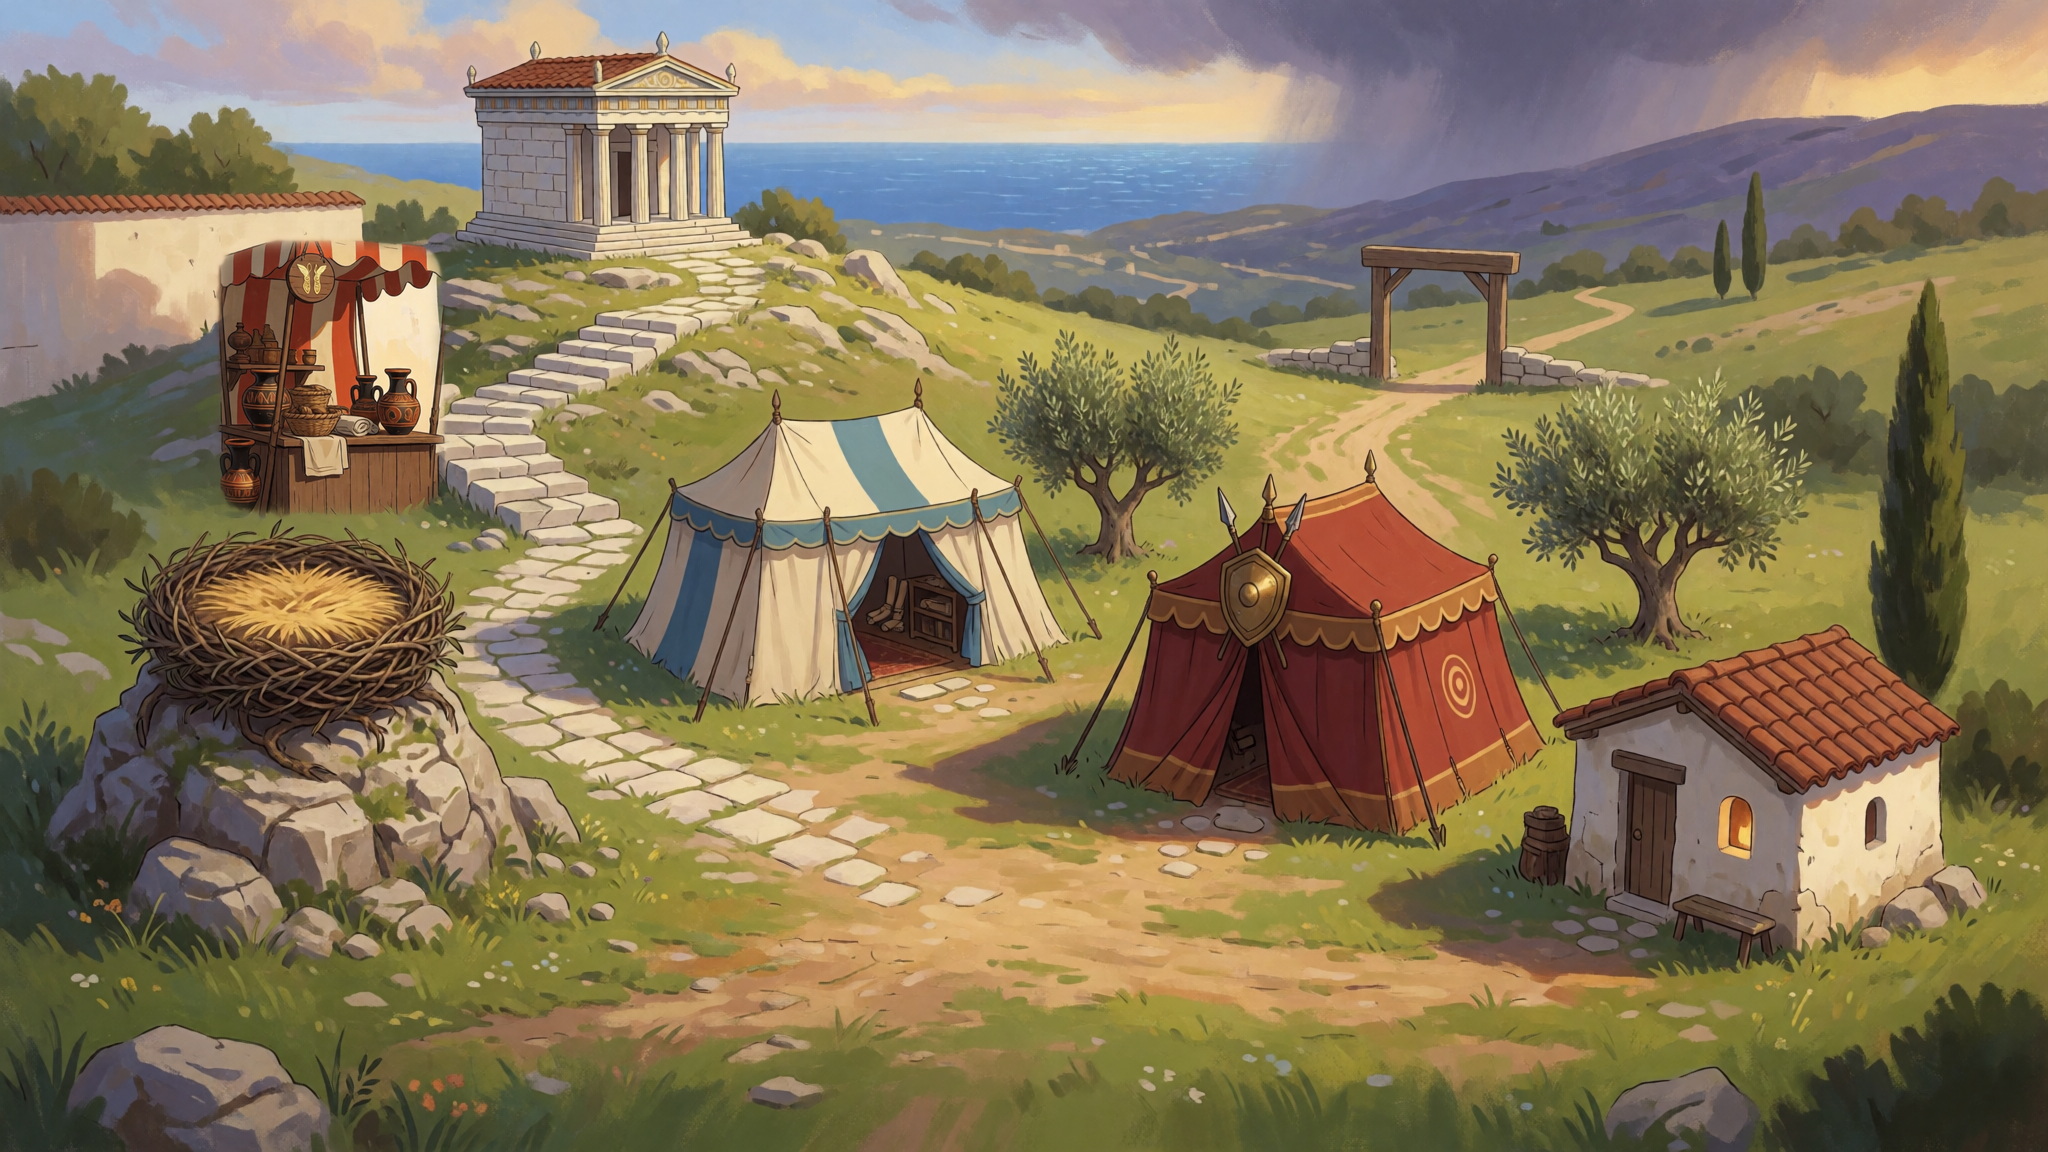
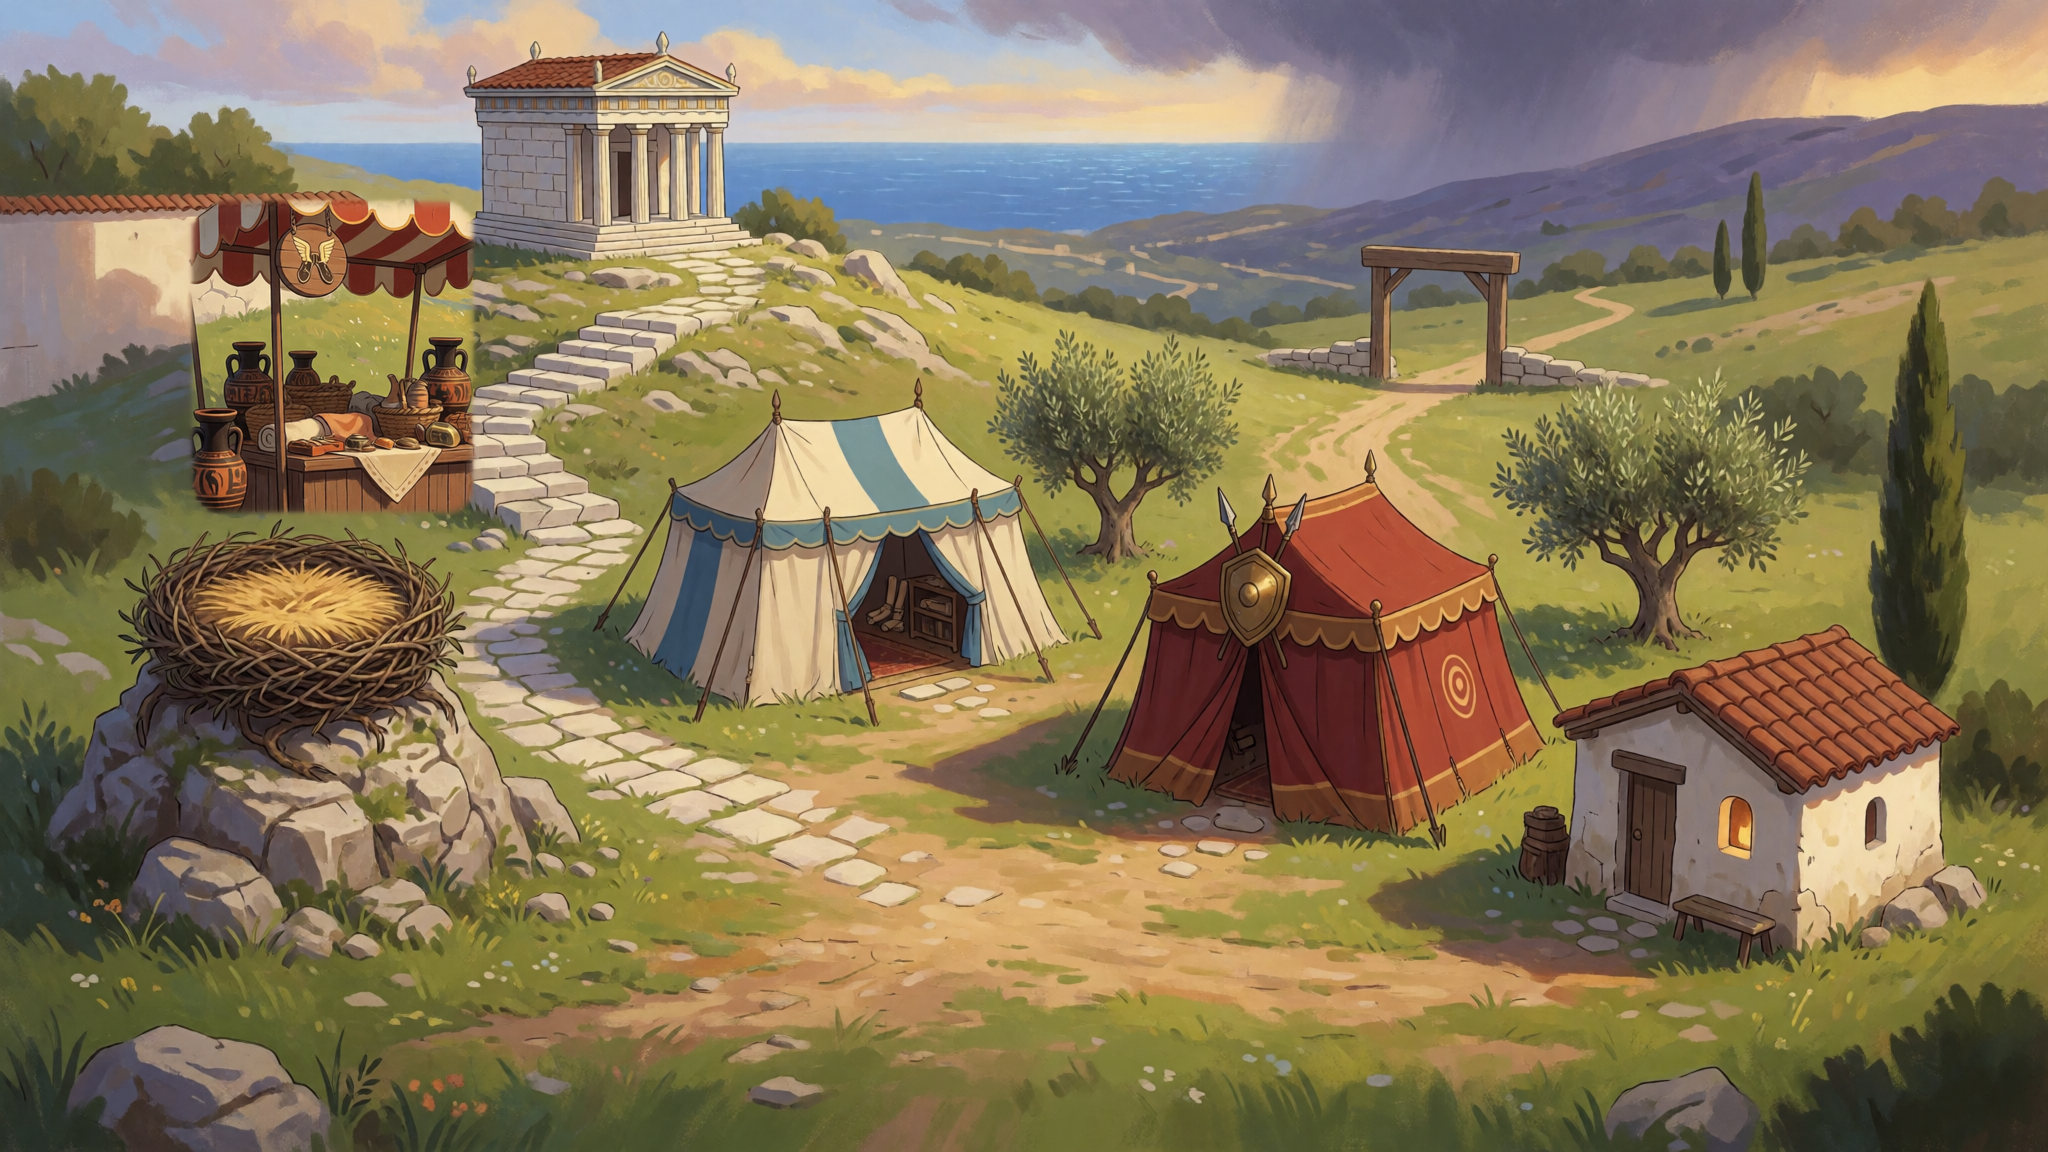
Art: Hermès's stall repainted in two passes (seed 5133, then the edge re-rendered at denoise 0.5 with seed 6131): open on all sides, its whole awning, crisp edges with no feathered halo, its feet clear of the nest; the hotspot follows the new awning (x 12.5-22.4, y 17-41) with its bounds pinned agai

Changed region(s): [[0.0938, 0.1562, 0.25, 0.4688]]

diff --git a/web/src/lib/world/scenes/camp.shapes.ts b/web/src/lib/world/scenes/camp.shapes.ts
@@ -11,17 +11,18 @@
 // plaque hangs over the door's foot, above the dialogue dock (y 80+) at every tested size.
 // The two overlaps UI3a left open (oracle/parchemins, dossier/cabin labels) are what these bounds and
 // the label positions in camp.ts solve; scenes-camp.spec.ts proves labelOverlaps() is empty.
-// Hermès's stall (sub-project 4, `hub_camp.webp` now carries it; style guide phase 3: box x 10.5-21.8,
-// y 20.8-44.8) is clipped to the iPad safe zone on the left and ends at y 40, above the dragon's head,
-// which covers the counter below (R18). Its name is inked on the counter (camp.ts, `on`), and the
-// temple's plaque slides right off it (camp.ts `labelDx`). The counter's foot (y 40-44.8) is not the
-// stall's: the nest's box keeps its top at y 42-44 there, since the grown dragon's head is drawn over
-// the counter's foot and a tap on the dragon belongs to the nest (Task 5 review, minor 1: kept).
+// Hermès's stall (sub-project 4, `hub_camp.webp` carries it; repainted 2026-10-02, style guide: awning
+// x 8.8-23.4, y 17 at its right corner to 20 at its left, counter down to y 43) is clipped to the iPad
+// safe zone on the left, stops at x 22.4 where the temple's box begins, and ends at y 41, above the
+// dragon's head, which covers the counter's foot (R18). Its name is inked on the counter (camp.ts,
+// `on`), and the temple's plaque slides right off it (camp.ts `labelDx`). The counter's foot is not the
+// stall's: the nest's box keeps its top at y 42-44 there, since a tap on the dragon belongs to the nest
+// (Task 5 review, minor 1: kept).
 import type { ShapeMap } from '../../scene/types';
 
 export const CAMP_SHAPES = {
   dragon: { kind: 'polygon', points: [[12.5, 44], [23, 42], [25, 50], [24, 66], [12.5, 66]] },
-  stall: { kind: 'polygon', points: [[12.5, 21], [21.8, 21], [21.8, 40], [12.5, 40]] },
+  stall: { kind: 'polygon', points: [[12.5, 19.5], [22.4, 17], [22.4, 41], [12.5, 41]] },
   oracle: { kind: 'polygon', points: [[22.5, 14], [36, 14], [36, 22], [33, 31], [27, 31], [22.5, 22]] },
   parchemins: { kind: 'polygon', points: [[33, 42], [51, 42], [51, 61], [33, 61]] },
   dossier: { kind: 'polygon', points: [[54, 44], [74, 44], [74, 70], [54, 70]] },

diff --git a/web/src/lib/world/scenes/camp.test.ts b/web/src/lib/world/scenes/camp.test.ts
@@ -73,7 +73,14 @@ describe('the hub on hub_camp.webp (UI3 Ruling B3)', () => {
   it("puts Hermès's stall on its painted box, inside the safe zone, above the dragon (spec 2026-09-29 drachmes §2, R18)", () => {
     const stall = CAMP_HOTSPOTS.find((h) => h.id === 'stall')!;
     expect(stall).toMatchObject({ label: "L'étal d'Hermès", target: 'camp', query: { panel: 'etal' }, labelPos: 'on' });
-    expect(CAMP_SHAPES.stall).toEqual({ kind: 'polygon', points: [[12.5, 21], [21.8, 21], [21.8, 40], [12.5, 40]] });
+    // The stall repainted on 2026-10-02 (style guide): its awning's slant at the top, inside the safe
+    // zone, short of the temple's box and above the nest's.
+    expect(CAMP_SHAPES.stall).toEqual({ kind: 'polygon', points: [[12.5, 19.5], [22.4, 17], [22.4, 41], [12.5, 41]] });
+    const xs = CAMP_SHAPES.stall.points.map((p) => p[0]);
+    const ys = CAMP_SHAPES.stall.points.map((p) => p[1]);
+    expect(Math.min(...xs)).toBeGreaterThanOrEqual(12.5);
+    expect(Math.max(...xs)).toBeLessThan(Math.min(...CAMP_SHAPES.oracle.points.map((p) => p[0])));
+    expect(Math.max(...ys)).toBeLessThan(Math.min(...CAMP_SHAPES.dragon.points.map((p) => p[1])));
     // The temple keeps its whole painted box, its left wall included (Task 5 review I1).
     expect(CAMP_SHAPES.oracle.points[0]).toEqual([22.5, 14]);
     expect(validateScene(CAMP_SCENE)).toEqual([]);

diff --git a/.claude/skills/krea2/SKILL.md b/.claude/skills/krea2/SKILL.md
@@ -125,7 +125,9 @@ inside the mask, 0.01 outside). `POST /sdapi/v1/img2img`, schema `StableDiffusio
   the API, blur 8 on a 270×150 px mask worked fine here; small masks are untested. If a result comes
   back unchanged, check the mean diff inside the mask, lower `mask_blur` to 0–4 and feather the mask
   yourself.
-- Soft Inpainting is available as an img2img script (`soft inpainting`), untried.
+- Soft Inpainting is available as an img2img script (`soft inpainting`), untried; it softens
+  transitions by design and nobody reports it on Krea. For adding an object to a scene without a
+  feathered halo, see "Adding an object to a scene: two passes" below.
 
 **No dedicated Krea 2 inpaint/edit/ControlNet models are usable here.** Krea publishes only Raw and
 Turbo. Community inpaint LoRAs (`yijunwang2/krea2-anypaint`, `Cierpliwy/krea2-inpaint-edit`) need
@@ -260,35 +262,61 @@ Seeds and asset lists are in `docs/art/style-guide.md` ("Progression redesign, p
   palais marble columns, a mosaic floor, a back-wall arch onto a courtyard, a canopy bed). Denoise
   0.6 (14 steps) also kept the plan but stayed busier and closer to the cabin's clutter.
 
-### Adding a building to a scene without moving anything else (Hermès's stall in the camp)
+### Adding an object to a scene: two passes (Hermès's stall in the camp, proven 2026-10-02)
 
-1. **Mask**: a rounded rectangle on the empty spot (`assets/art/scenes/masks/hub_camp_stall_inpaint.png`).
-   Keep its top edge **below** any roofline or ridge of what stands behind: a mask cutting through
-   the wall's tile coping made the model paint a second roof line inside the mask. Keep the object
-   inside the iPad safe zone (x 12.5-87.5 %, `docs/art/scenes.md`); the first placement at x 2-17 %
-   was mostly outside it.
-2. **Inpaint**: `/sdapi/v1/img2img` with the mask, `inpaint_full_res` true, **padding 160**,
-   `mask_blur` 8, `inpainting_fill` 1, denoise 0.95, 9 steps, width/height 1024x1024 (the "only
-   masked" crop is rendered at that size), `discorde-illustration`, 3 seeds. The prompt describes the
-   surroundings first ("a sunny grassy hillside ..., the lower part of a sunlit white-washed wall
-   behind"), then the object, then "the same light and colours as the surrounding picture" and
-   `(people:-3) (text:-3) (letters:-3) (writing:-3) (roof tiles:-2)`. Padding 64 gave too little
-   context (a lighter, different wall); 160 matches better but still not perfectly. Command:
-   `tools/art/with_lock.sh python tools/art/img2img.py --init assets/art/scenes/hub_camp.png
-   --mask assets/art/scenes/masks/hub_camp_stall_inpaint.png --prompt-file stall.txt --style
-   discorde-illustration --size 1024x1024 --denoise 0.95 --steps 9 --padding 160 --mask-blur 8
-   --seed 4321 --count 3 --out <scratch>/stall.png` (the prompt is in `scenes/hub_camp_stall.json`).
-3. **Paste only the object**: the model always repaints the background inside the mask slightly
-   differently (here it dropped the tree's shade on the wall), which shows as a pale rectangle. Trace
-   the object by hand as a few polygons on the raw result (view a 3x crop with a 20 px grid; follow
-   the awning scallops, leave open gaps under the awning to the original), save it as a paste mask,
-   and composite with `python tools/art/inpaint_paste.py ORIG RAW PASTE_MASK INPAINT_MASK OUT 0`.
-   It prints the pixels changed outside the inpaint mask (must be 0) and the changed box in
-   fractions, for the hotspot.
-4. **Rejected**: Grounding DINO + SAM 2.1 on the painted stall ("market stall. amphora. basket.",
-   union, or a SAM box prompt): the masks missed the amphorae, had holes and took in patches of the
-   repainted wall. A busy painted object on a painted background does not segment cleanly; hand
-   polygons took five minutes and are exact.
+The method the user approved (stall seed 5133 + refine 6131, `assets/art/scenes/hub_camp_stall.json`
+holds every setting). It replaces the 2026-09-30 method (one inpaint + a hand-traced paste mask),
+whose stall came out clipped on three sides by its own mask, with a cream back panel that read as a
+second wall.
+
+**Why a single inpaint leaves a halo (Forge Neo `modules/processing.py`, read 2026-10-02):** the
+result is pasted back as `gen*G(mask) + orig*(1-G(mask))`, `G` a Gaussian blur of sigma `mask_blur`
+(the feather is ~5 sigma wide). The model fills the mask edge to edge whatever the prompt says about
+margins (it does not know where the mask is: in "only masked" mode it repaints the whole padded crop
+and only the masked part is kept), so the object touches the border, where `G` is ~0.5: half the
+object's edge is replaced by the original scenery, a soft rounded-rectangle ghost. A larger blur is
+worse. Prompt wording ("a margin of grass all around it") does not help. `mask_blur` is the only
+feather control (`mask_blur_x`/`_y` are not independent in Neo); there is no native erode/dilate (grow
+masks yourself), a greyscale mask is a blend weight, not a per-pixel denoise, and no extension for
+Neo fixes this (sd-forge-ultra-paint is a UI painter; Soft Inpainting softens by design and is
+untested on Krea). Research notes: Krea's docs say nothing about inpainting; adding an object onto
+bare ground needs denoise 0.9-1.0 (partial denoise keeps the grass, the object comes out ghostly).
+
+1. **Pass 1: paint the object.** Mask a rounded box on the spot (`masks/hub_camp_stall_inpaint.png`,
+   px 190-475 x 200-515): its top **below** any roofline behind (a mask through the wall's tile
+   coping paints a second roof), its bottom **clear of what stands below** (a mask reaching the nest
+   put the counter's feet on the twigs), the object inside the iPad safe zone (x 12.5-87.5 %).
+   `img2img.py --init <scene> --mask <box> --prompt-file <p> --style discorde-illustration --size
+   1024x1024 --padding 200 --mask-blur 6 --denoise 0.95 --steps 9 --seed N --count 3` ("only masked",
+   the 1024² crop holds the wall, steps and slope as context). **Prompt: the object alone, in
+   sentences, with how it sits in its setting**, not the scene: "A small ... market stall ...
+   standing alone in the middle of a sunny grassy slope ..., open at the back and sides so the grassy
+   hillside shows through behind the counter, ... its feet on the grass with a soft shadow", then
+   "the same style, light and perspective as the surrounding picture" and NegPiP negatives
+   `(people:-3) (text:-3) (letters:-3) (writing:-3) (roof tiles:-3) (back wall:-2) (backdrop panel:-2)
+   (curtain:-1)`. Describing the surroundings at length made the model paint them instead (a wall).
+2. **Pass 2: re-render the edge.** Grow the box ~24 px on the sides and top only (never toward
+   something it must not touch; `masks/hub_camp_stall_refine.png`) and repaint **the pass-1 picture**
+   with the same prompt at **denoise 0.5**, 16 steps (≈ 8/denoise), `--mask-blur 4`, padding 200.
+   At 0.5 the object stays where it is, but pass 1's feathered band is repainted as real detail: the
+   halo goes, the awning's top is completed, the edges are crisp. Pass 2's own feather falls on
+   plain ground that barely changes at 0.5, so it leaves no seam.
+3. **Check**: 0 px may differ from the original outside the refine mask grown by ~12 px (its
+   feather); take the changed box (fractions) and the object's real outline on a % grid for the
+   hotspot (`web/src/lib/world/scenes/*.shapes.ts`), clipped to the safe zone and to neighbouring
+   hotspots.
+4. **Export**: copy the PNG as `<scene>.png` into a gitignored staging folder under
+   `assets/art/web/` and `tools/art/run_docker.sh webify --src <stage> --dst <stage>/out --max-px 2048
+   --quality 88`, then replace `web/public/art/scenes/<scene>.webp` (the README size test and the art
+   budget test must still pass).
+
+**Rejected (2026-10-02):** whole-picture inpainting (`--whole` at 2048×1152) of a small mask: at 0.95
+a slab of wall with tiles, at 1.0 awning fragments at the wrong scale, both with a soft halo; one
+pass only (the halo, the awning cut flat by the mask's top). **Rejected (2026-09-30):** Grounding
+DINO + SAM 2.1 on the painted stall (missed the amphorae, holes, took repainted wall); a hand-traced
+paste mask on a stall the mask had already clipped. If a pass-2 result ever still shows a halo, the
+fallback is a hard composite: generate with `mask_blur` 0 and paste only the object's silhouette
+(hand polygons) plus a 1-2 px feather and its contact shadow, in Python.
 
 ### Hermès and the shop icons
 

diff --git a/docs/art/style-guide.md b/docs/art/style-guide.md
@@ -494,17 +494,25 @@ between and under the two windows; palais, the marble wall below the shelf (x 4-
 bare upper shelf, and the wall panels beside the arch between the columns. Both WebPs 249 / 315 KiB (`assets/art/export/scenes/`).
 
 **Hermès's stall** `assets/art/scenes/hub_camp_stall.png` (the original `hub_camp.png` untouched):
-inpaint seed 4323 (mask `scenes/masks/hub_camp_stall_inpaint.png`, padding 160, blur 8, denoise
-0.95, 9 steps, 1024² crop), then only the hand-traced stall (`masks/hub_camp_stall_paste.png`)
-pasted onto the original with `tools/art/inpaint_paste.py`: **0 px differ outside the inpaint mask**
-(checked by the script; the raw inpaint result is kept as `masks/hub_camp_stall_raw.png`, and
-re-running the command reproduces the PNG exactly). Striped red-and-cream awning, a round wooden
-sign with golden winged sandals, amphorae, baskets and rolled cloth on a counter, no text.
-**Stall bounding box: x 0.105-0.218, y 0.208-0.448 of the picture** (px 216-445, 240-515); it
-stands in front of the right end of the white wall, above the nest (nest hotspot from y 0.44). The
-left 2 % falls outside the iPad safe zone, so clip the hotspot to x 0.125-0.218. Rejected: seeds
-4301-4303 (mask at x 0.015-0.17, mostly outside the safe zone, and its top edge cut the wall's
-tiles, painting a second roofline) and 4311-4313 (same place, lower mask). WebP 297 KiB.
+repainted on 2026-10-02 in two passes (krea2 skill, "Adding an object to a scene"), all settings in
+`scenes/hub_camp_stall.json`. Pass 1, seed 5133: mask `scenes/masks/hub_camp_stall_inpaint.png`
+(rounded box px 190-475 x 200-515, its bottom kept clear of the nest), only masked, padding 200,
+blur 6, denoise 0.95, 9 steps, 1024² crop, a prompt of the stall alone "open at the back and sides
+so the grassy hillside shows through" (result kept as `masks/hub_camp_stall_raw.png`). Pass 2, seed
+6131: the pass-1 picture repainted at **denoise 0.5**, 16 steps, blur 4, through
+`masks/hub_camp_stall_refine.png` (the box grown 24 px on the sides and top, not toward the nest):
+pass 1's feathered band became real detail, so no rounded-rectangle halo is left and the awning is
+whole. **0 px differ from `hub_camp.png` outside the refine mask plus its 12 px feather.** An open
+stall on four thin poles with a scalloped red-and-cream awning, a round wooden sign with golden
+winged sandals, amphorae, baskets and rolled cloth on a counter, no text. **Stall: awning x
+0.088-0.234, y 0.17 (right corner) to 0.20 (left), counter down to y 0.43** (changed box px 164-505
+x 175-527); it stands in front of the right end of the white wall, above the nest (nest hotspot from
+y 0.42-0.44). The hotspot is clipped to x 0.125 (safe zone) and 0.224 (the temple's box) and ends
+at y 0.41. Rejected: the first stall (seed 4323, 2026-09-30: clipped by its own mask on three sides,
+a cream back panel read as a second wall, pasted through a hand-traced mask), whole-picture inpaints
+(5101-5103 at 0.95 and 5111-5113 at 1.0: a wall or awning fragments), single passes 5121-5123 (the
+feathered mask edge, the awning cut by the mask's top, the stall on the nest), and 5131/5132 after
+pass 2 (striped back cloths). WebP 304 KiB.
 
 **Hermès** `assets/art/characters/hermes.png` + `_cut` (seed 707, 768×1344, `discorde-inked-clean`;
 seed 708 rejected, two caduceuses), a cheerful young merchant god: winged brimmed cap, saffron tunic,

diff --git a/docs/art/scenes.md b/docs/art/scenes.md
@@ -46,7 +46,7 @@ the right (Éris's direction).
 
 Weekly-goal banner: open sky at x 40–65, y 8–18.
 
-The web copy carries Hermès's stall (`assets/art/scenes/hub_camp_stall.png`, box x 10.5-21.8 %, y 20.8-44.8 %; sub-project 4).
+The web copy carries Hermès's stall (`assets/art/scenes/hub_camp_stall.png`, awning x 8.8-23.4 %, y 17-20 % to the counter at y 43 %; sub-project 4, repainted 2026-10-02).
 
 ## nest: the dragon's nest
 
